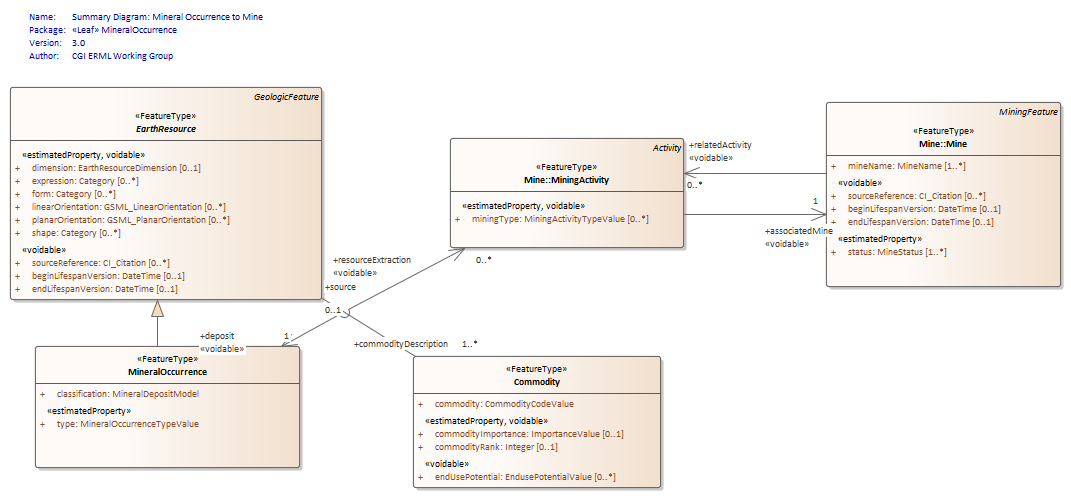
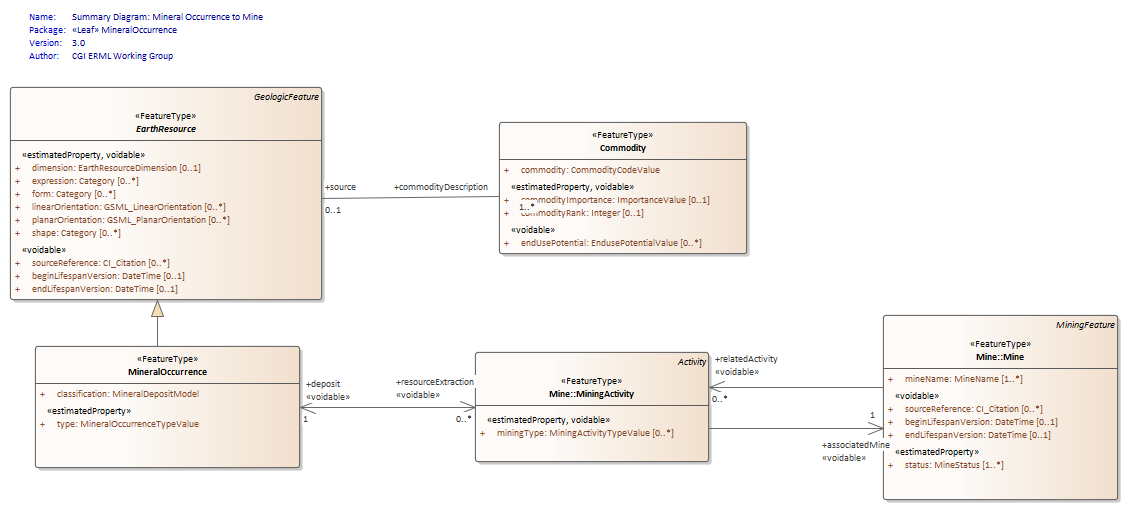
Reorganise diagram

Changed region(s): [[0.0, 0.1506, 0.7087, 0.9639], [0.3389, 0.1807, 1.0, 0.994], [0.0308, 0.0301, 0.2465, 0.1205]]

diff --git a/EARoot/EA2/EA88.htm b/EARoot/EA2/EA88.htm
@@ -36,11 +36,11 @@ function nameClassifier(name, separator)
 <img src="EA89.png" usemap="#EA89" border="0" />
 
 <MAP NAME="EA89">
-<area shape="rect" coords="413,356,661,488" href="EA91.htm" target="_self">
-<area shape="rect" coords="450,138,684,248" href="../EA1/EA31.htm" target="_self">
+<area shape="rect" coords="499,122,747,254" href="EA91.htm" target="_self">
+<area shape="rect" coords="475,352,709,462" href="../EA1/EA31.htm" target="_self">
 <area shape="rect" coords="35,346,300,468" href="EA94.htm" target="_self">
 <area shape="rect" coords="10,87,322,300" href="EA92.htm" target="_self">
-<area shape="rect" coords="826,102,1061,287" href="../EA1/EA30.htm" target="_self">
+<area shape="rect" coords="883,315,1118,500" href="../EA1/EA30.htm" target="_self">
 </MAP>
 
 	<div class="ObjectTitle">Summary Diagram: Mineral Occurrence to Mine : Class diagram</div>
@@ -51,7 +51,7 @@ function nameClassifier(name, separator)
 		</tr>
 		<tr>
 			<td width="15%" class="ObjectDetailsTopic">Modified:</td>
-			<td width="85%" class="ObjectDetailsValue">6/05/2019 8:34:14 PM</td>
+			<td width="85%" class="ObjectDetailsValue">20/11/2024 4:02:20 PM</td>
 		</tr>
 		<tr style="padding-top: 10px;">
 			<td width="15%" class="ObjectDetailsTopic"><img src="../../images/plus03.gif" align="absmiddle" id="proj" onclick="parent.toggleData(this.id)" />Project:</td>
